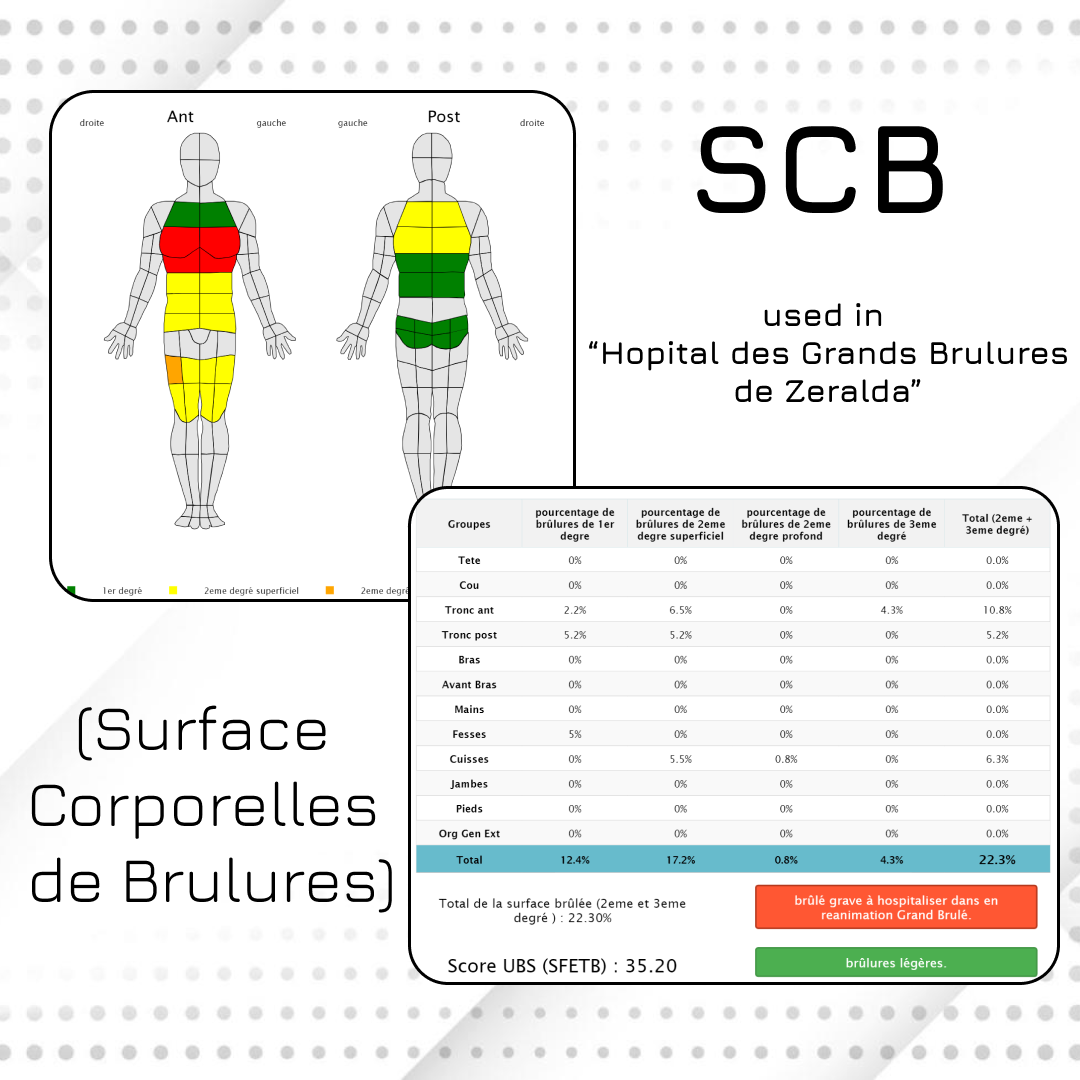
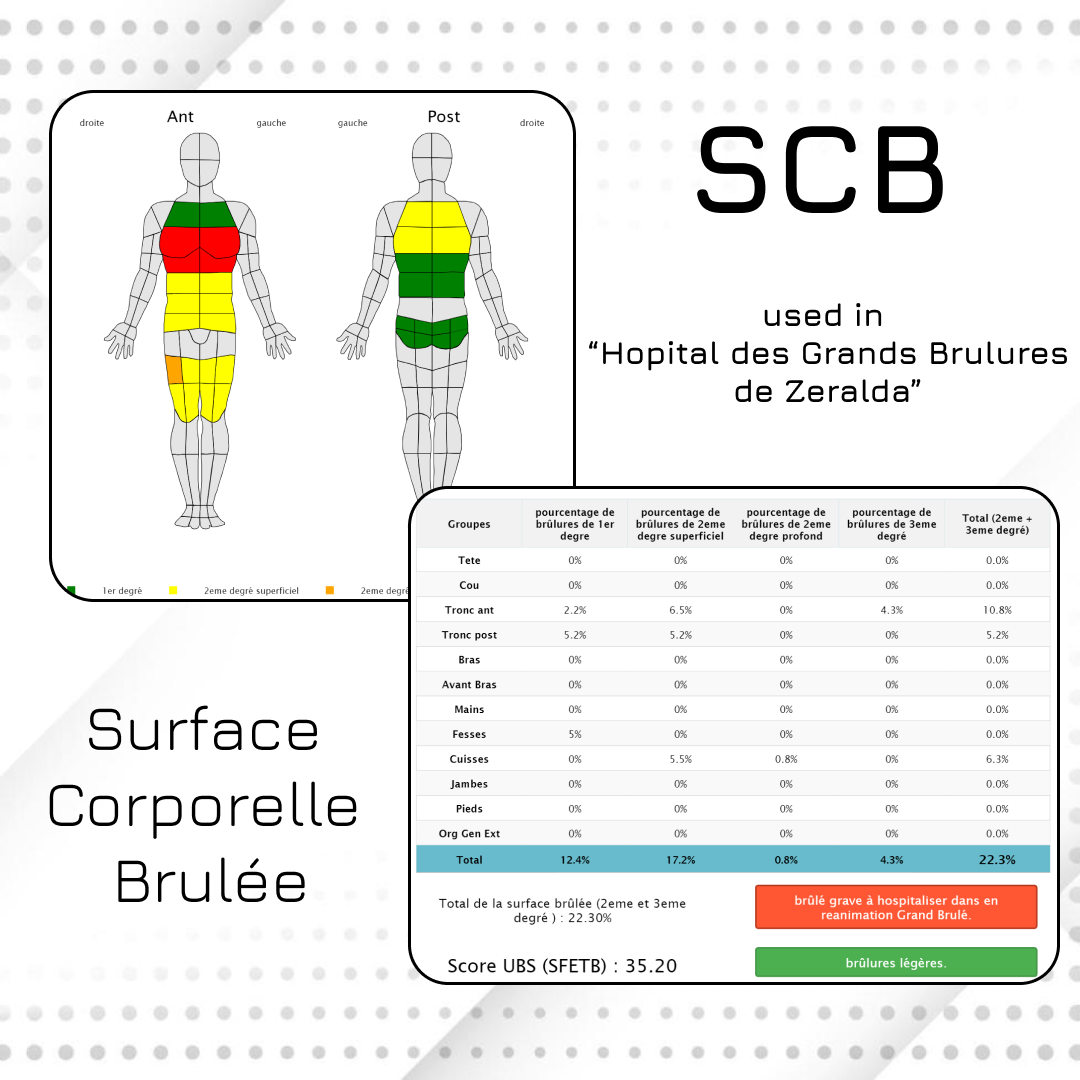
Portfolio

Changed region(s): [[0.0306, 0.7028, 0.3667, 0.8556], [0.0611, 0.6417, 0.3056, 0.7028]]

diff --git a/index.html b/index.html
@@ -298,12 +298,11 @@
                 class="project-img"
               />
             </div>
-            <h2 class="experience-sub-title project-title">SCB (Surface Corporelle de Brulures)</h2>
+            <h2 class="experience-sub-title project-title">SCB (Surface Corporelle Brulée)</h2>
             <div class="btn-container">
               <p>
-                An app made for the 
-Burning Hospitals, Currently used in "Hôpital des grands brûlés à 
-Zéralda" and over 20 hospitals.
+                SCB (Surface Corporelle Brûlée) is an application made for doctors, which helps calculate the surface area and depth of burns in order to determine the appropriate course of action.
+                Currently used in more than 20 hospitals around Algeria.
               </p>
               
             </div>
@@ -365,7 +364,7 @@ Zéralda" and over 20 hospitals.
             alt="Email icon"
             class="icon contact-icon email-icon"
           />
-          <p><a href="mailto:examplemail@gmail.com">aymenhadjmebarek1834@gmail.com</a></p>
+          <p><a href="mailto:aymenhadjmebarek1834@gmail.com">aymenhadjmebarek1834@gmail.com</a></p>
         </div>
         <div class="contact-info-container">
           <img
